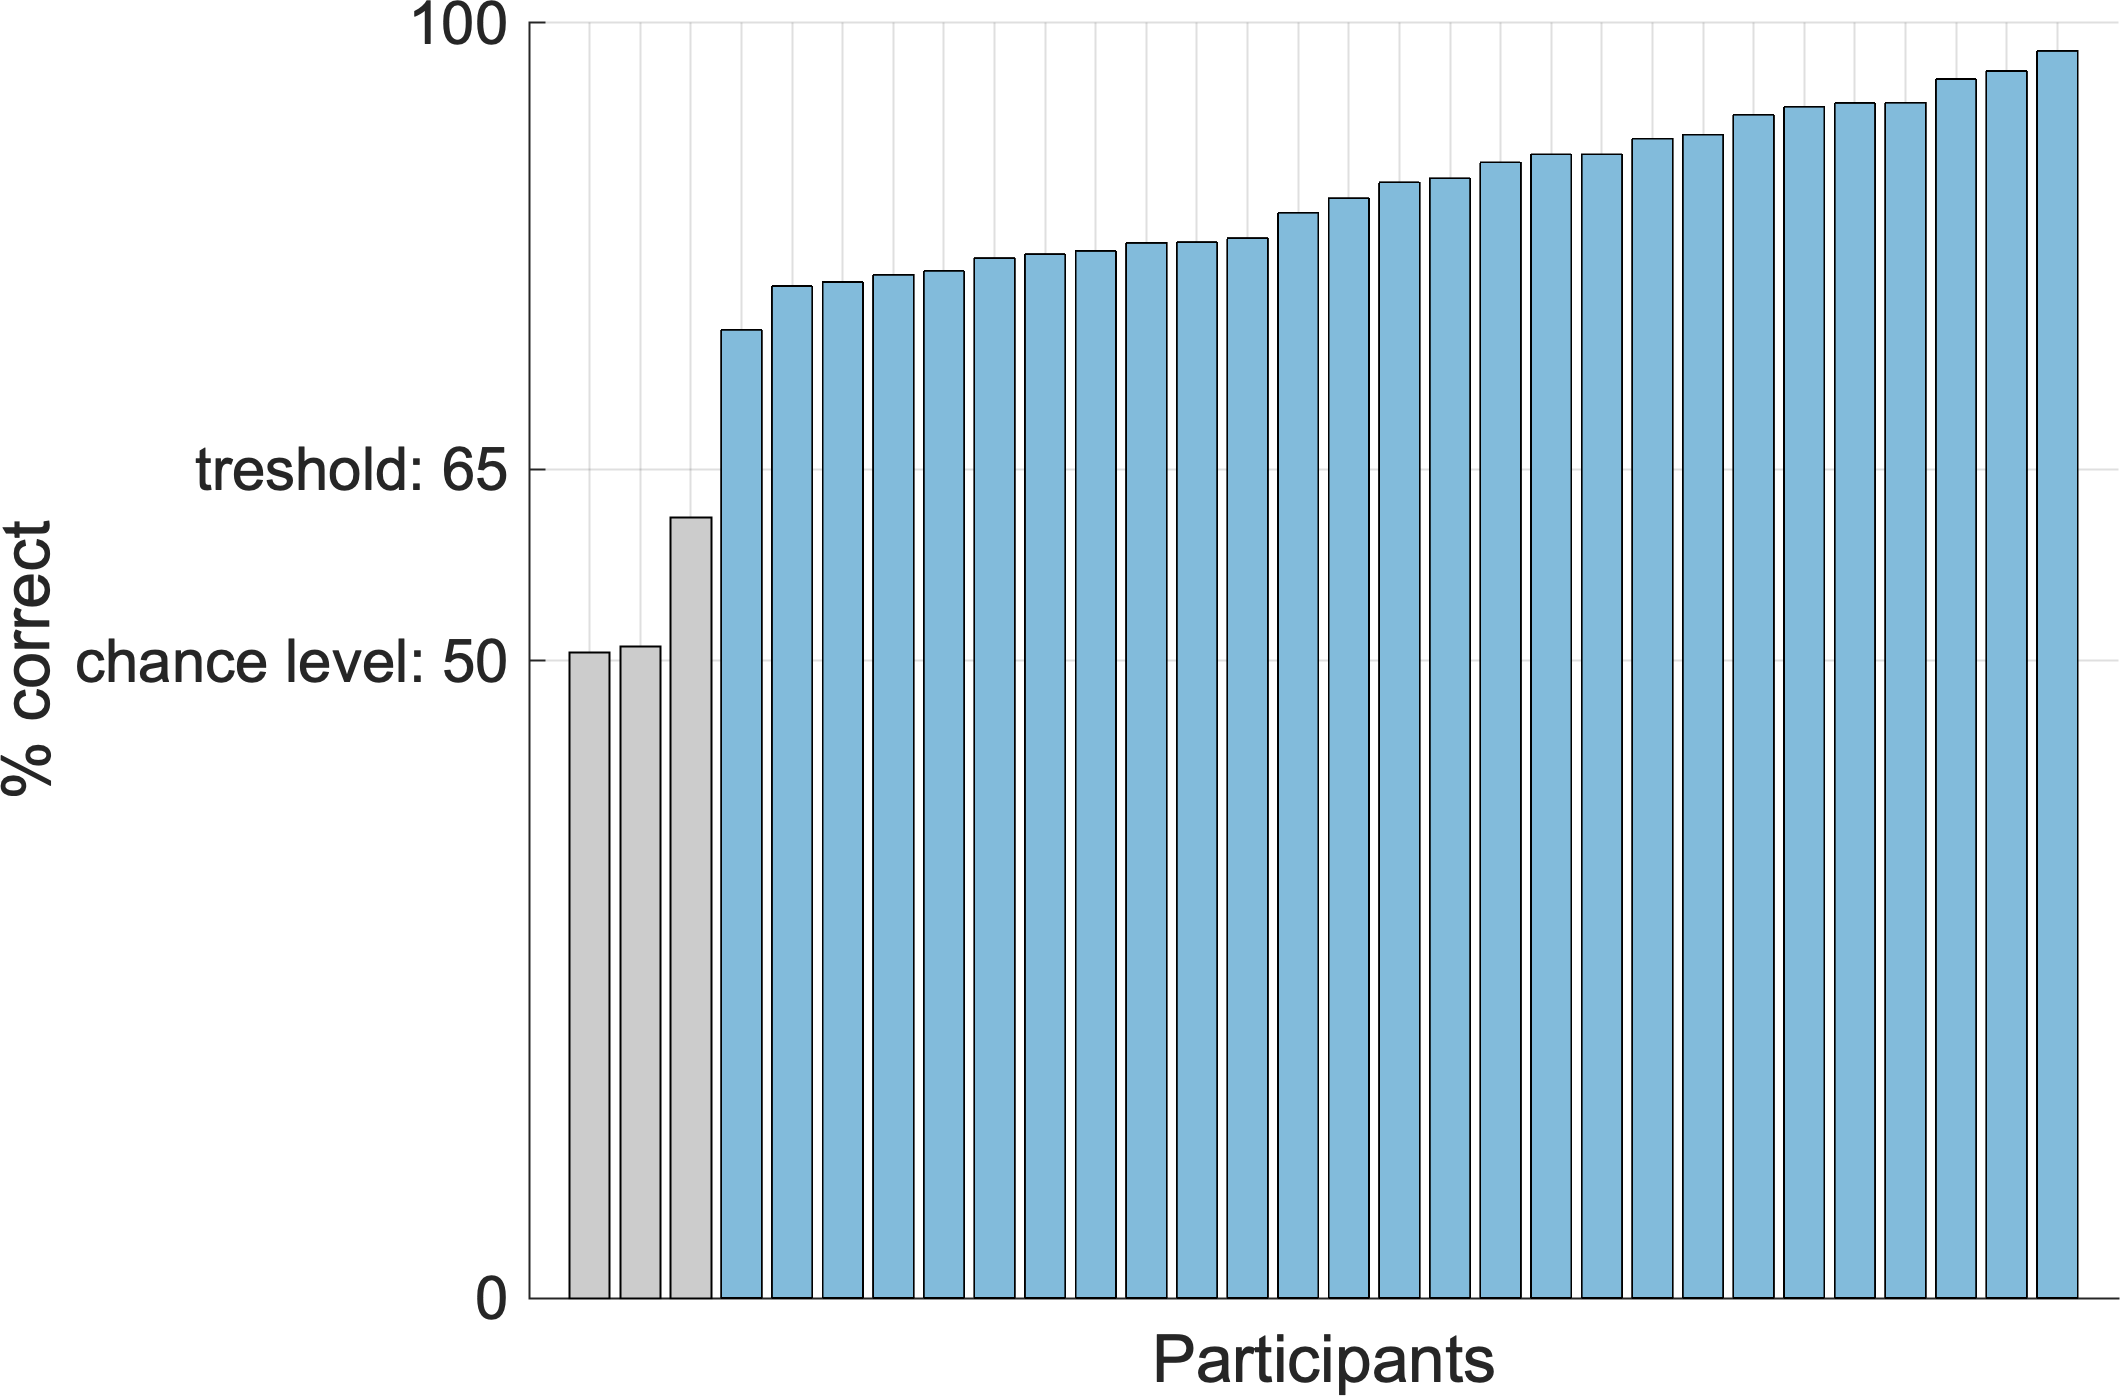
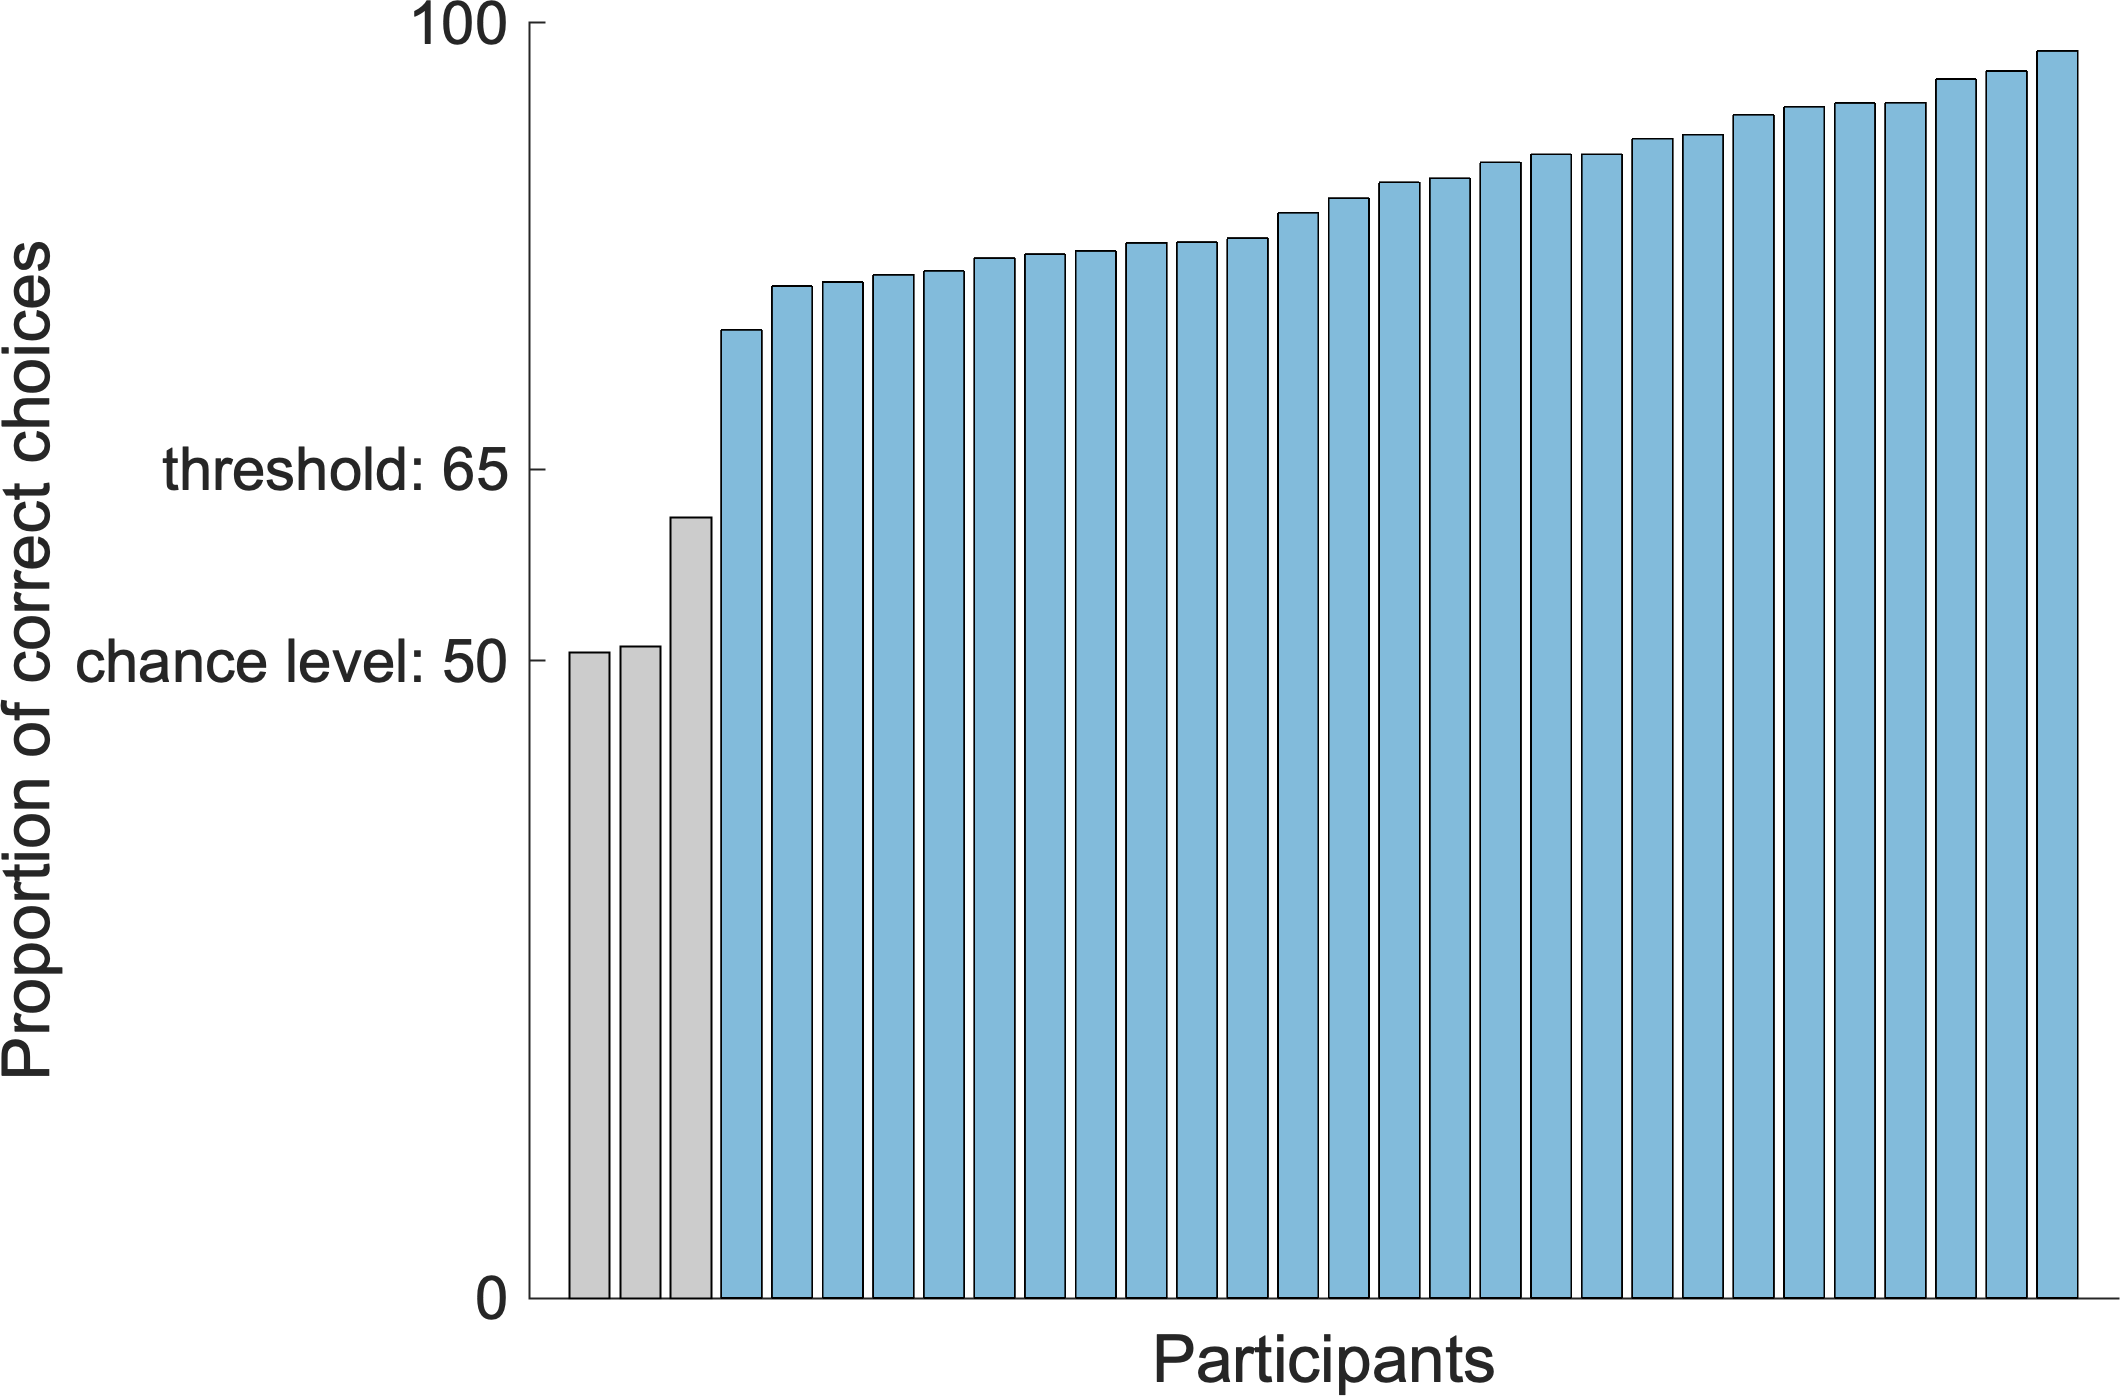
Thesis submission

Changed region(s): [[0.0, 0.154, 0.0311, 0.7701], [0.0623, 0.308, 0.0934, 0.3388]]

diff --git a/+data_prep/ready_dt_grohn.m b/+data_prep/ready_dt_grohn.m
@@ -135,17 +135,17 @@ if PLOT
     bar(1:3, performance(1:3), "FaceColor", GREY)
     bar(4:length(performance), performance(4:end), "FaceColor", c)
     
-    grid on
+    grid off
     ylim([0,1])
     
     yticks([0, 0.5 tresh, 1])
-    yticklabels({'0','chance level: 50', sprintf('treshold: %G', tresh*100), '100'})
+    yticklabels({'0','chance level: 50', sprintf('threshold: %G', tresh*100), '100'})
     
     xticks(1:30)
     xticklabels({})
     
     xlabel('Participants')
-    ylabel('% correct')
+    ylabel('Proportion of correct choices')
     
     set(gca, 'FontSize', 15, 'FontName', 'Arial')
     set(gcf, 'Position', [526 367 588 391])

diff --git a/+plot_functions/plot_likelihood_ratios.m b/+plot_functions/plot_likelihood_ratios.m
@@ -5,12 +5,15 @@ cm = brewermap(10, 'Blues');
 c = cm(5, :);
 bar(1:length(models), lls - max(lls), 'FaceColor', c)
 
+labels = labels_from_models(models);
+
 xticks(1:length(models))
-xticklabels(models)
+xticklabels(labels)
 xtickangle(45)
 
-ylabel({'log likelihood ratio relative to PEIRS', 'log(data|model) - log(data|PEIRS)'})
+ylabel({'log likelihood ratio relative to PEIRS'})
 
+box off
 set(gca, 'FontSize', 15, 'FontName', 'Arial')
 
 end

diff --git a/+plot_functions/plot_performance.m b/+plot_functions/plot_performance.m
@@ -1,6 +1,6 @@
 function plot_performance()
 
 D = load('data/data_table_grohn.mat');
-dt = ready_dt_grohn(D.data_table_image, 1);
+dt = data_prep.ready_dt_grohn(D.data_table_image, 1);
 
 end

diff --git a/+plot_functions/plot_regression_traces_bin_hierarchical.m b/+plot_functions/plot_regression_traces_bin_hierarchical.m
@@ -77,7 +77,7 @@ xticklabels(tick_labels)
 yticks(0)
 yticklabels(0)
 
-xlabel('time (ms)')
+xlabel('Time [ms]')
 ylabel({'Pupil response to \delta (a.u.)'})
 
 title(fig_name)

diff --git a/+plot_functions/plot_sim_and_exp_risk_diffs_test_against_exp.m b/+plot_functions/plot_sim_and_exp_risk_diffs_test_against_exp.m
@@ -82,7 +82,7 @@ xtickangle(45)
 
 ylabel("P(risky|high) - P(risky|low)")
 
-ylim([-0.05, 0.32])
+ylim([-0.05, 0.35])
 
 set(gca, "FontName", "Arial", "FontSize", 15)
 end

diff --git a/+plot_functions/plot_BIC_bar_direct.m b/+plot_functions/plot_BIC_bar_direct.m
@@ -62,6 +62,7 @@ xlim([0,n_mods+1])
 
 ylabel("Sum BIC")
 
+box off
 set(gca, 'FontSize', 15, 'FontName', 'Arial')
     
 end
